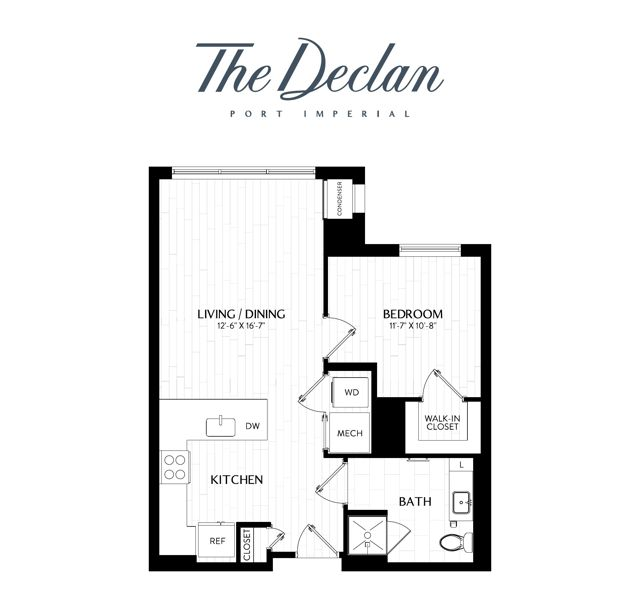
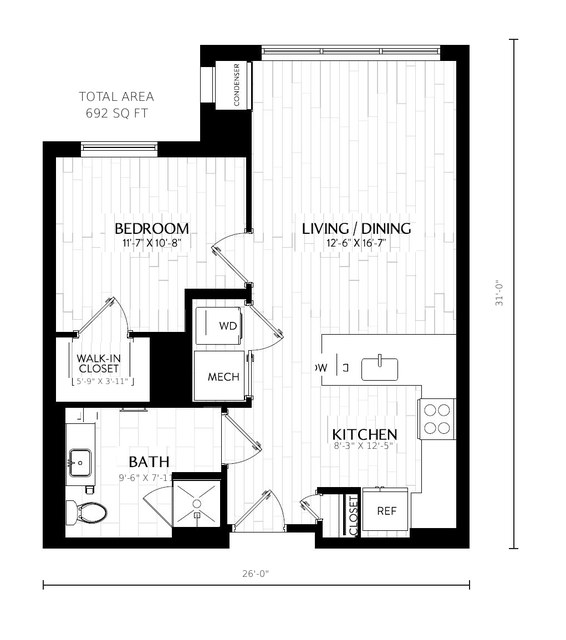
Add December-free deal (net $3,687/mo), corrected floor plan, skip label for NYC Sublets
Claude-Session: https://claude.ai/code/session_011tLM7uwCDuKwUD4ANF4AVN

diff --git a/index.html b/index.html
@@ -144,12 +144,14 @@ select{width:100%;font-size:17px;padding:10px;border:1px solid var(--line);borde
   <p class="small" style="margin-top:8px">Facebook only shows the first two lines until someone taps "See more." Tap "See more" above to read the whole thing.</p>
   <details class="more"><summary>Edit the post</summary>
     <p class="small">Change a box and the post updates by itself.</p>
-    <label for="rent">Rent per month</label>
+    <label for="rent">Rent per month on the lease</label>
     <input type="text" id="rent" value="$4,258" inputmode="text">
+    <label for="net">Monthly rent with the deal (leave empty if no deal)</label>
+    <input type="text" id="net" value="$3,687" inputmode="text">
     <label for="movein">Move-in date</label>
     <input type="text" id="movein" value="Dec 1">
     <label for="offer">Special deal (leave empty if none)</label>
-    <input type="text" id="offer" placeholder="Example: First month FREE">
+    <input type="text" id="offer" value="December rent FREE if you take over by Dec 1" placeholder="Example: First month FREE">
     <label for="post">The whole post (you can type in here too)</label>
     <textarea id="post"></textarea>
     <p class="note" id="editednote" hidden>You typed in the big box, so the small boxes won't change it anymore. Tap "Start over" to undo your typing.</p>
@@ -235,7 +237,7 @@ const GROUPS=[
  ["NYC Rooms for Rent (roommates, rooms, apartments + sublets)","https://www.facebook.com/groups/I9150/","","nyc"],
  ["People of Port Imperial","https://www.facebook.com/groups/204624969954677/","Private neighbors group: answer the join questions."]
 ];
-const WARN={2:"⚠ This group removed Tyler's post. Skipped by default.",4:"⚠ Tyler was removed from this group after posting. Skipped by default.",8:"⚠ Only approves posts that include a Cirtru listing link. Skipped by default."};
+const WARN={2:"⚠ This group removed Tyler's post. Skipped by default.",3:"⚠ This group makes you pay to join. Skipped by default.",4:"⚠ Tyler was removed from this group after posting. Skipped by default.",8:"⚠ Only approves posts that include a Cirtru listing link. Skipped by default."};
 const $=id=>document.getElementById(id);
 const store=(k,v)=>{try{localStorage.setItem("declan_"+k,JSON.stringify(v))}catch(e){}};
 const load=(k,d)=>{try{const v=localStorage.getItem("declan_"+k);return v==null?d:JSON.parse(v)}catch(e){return d}};
@@ -267,26 +269,30 @@ renderTimes();setInterval(renderTimes,10*60*1000);
 
 /* ---------- post ---------- */
 let edited=false;
-function titleFor(gi,rent,mi,offer){
-  const end=" | "+rent+"/mo | Move in "+mi+(offer?" | "+offer:"");
+const EDITED_PHOTOS=false; // flip to true when the edited photo set is in photos/
+function dealTag(offer){return offer?offer.split(/\s+(?:if|when|for)\s+|\s*\(/i)[0].trim():""}
+function titleFor(gi,rent,mi,offer,net){
+  const tag=dealTag(offer);
+  const end=" | "+(net?"Net "+net+"/mo":rent+"/mo")+" | Move in "+mi;
+  const pre=tag?tag+" | ":"";
   const NJ=["Take over my lease: 1BR with skyline views at The Declan (Weehawken)","Lease takeover: 7th-floor 1BR facing the Manhattan skyline at The Declan, Weehawken","Skyline-view 1BR at The Declan (Port Imperial), take over my lease"];
   const NY=["10 min to Midtown by ferry: 1BR with skyline views, lease takeover at The Declan (Weehawken)","Ferry to Midtown + skyline views: 1BR lease takeover at The Declan, Weehawken"];
-  if(gi==null)return NJ[0]+end;
+  if(gi==null)return pre+NJ[0]+end;
   const kind=GROUPS[gi][3]==="nyc"?"nyc":"nj";
   const same=GROUPS.map((g,i)=>i).filter(i=>(GROUPS[i][3]==="nyc"?"nyc":"nj")===kind);
   const k=same.indexOf(gi), list=kind==="nyc"?NY:NJ;
-  return list[k%list.length]+end;
+  return pre+list[k%list.length]+end;
 }
 function build(gi){
-  const rent=$("rent").value.trim()||"$4,258", mi=$("movein").value.trim()||"Dec 1", offer=$("offer").value.trim();
-  return [titleFor(gi,rent,mi,offer),
+  const rent=$("rent").value.trim()||"$4,258", mi=$("movein").value.trim()||"Dec 1", offer=$("offer").value.trim(), net=$("net").value.trim();
+  return [titleFor(gi,rent,mi,offer,net),
   "",
-  (offer?"🎁 "+offer+"\n\n":"")+"I'm looking for someone to take over my lease at The Declan, a luxury waterfront building in Port Imperial that opened in 2025. My apartment is on the 7th floor, and the whole living room wall is floor-to-ceiling windows looking right at the Midtown and Hudson Yards skyline. You can see it from bed too.",
+  (offer?"🎁 "+offer+(net?". That brings it down to about "+net+"/month for the rest of the lease.":"")+"\n\n":"")+"I'm looking for someone to take over my lease at The Declan, a luxury waterfront building in Port Imperial that opened in 2025. My apartment is on the 7th floor, and the whole living room wall is floor-to-ceiling windows looking right at the Midtown and Hudson Yards skyline. You can see it from bed too.",
   "",
   "Only about 7.5 months left on the lease (it ends July 14, 2027), so it's a great fit if you don't want a full 12-month commitment.",
   "",
   "📆 Move in "+mi+" (flexible)",
-  "💵 "+rent+"/month + utilities, no broker fee",
+  "💵 "+(net?net+"/month with the deal ("+rent+"/month on the lease)":rent+"/month")+" + utilities, no broker fee",
   "🏠 692 sq ft, 9-ft ceilings, washer/dryer in the apartment, walk-in closet with built-in shelving",
   "🍳 Big quartz island with seating, gas stove, dishwasher, stainless appliances",
   "🛋 Some furniture can stay for free",
@@ -295,13 +301,15 @@ function build(gi){
   "⛴ Ferry to Midtown nearby, plus light rail and buses to Port Authority",
   "✅ Easy process: apply with the building, get approved, move in",
   "",
+  ...(EDITED_PHOTOS?["📸 Photos have enhanced lighting and sky, but the view is exactly what you see from the windows.",""]:[]),
   "Tours weekdays after 4:30 PM or weekends 8 AM–6 PM. Message me with your move-in date and a little about yourself!"].join("\n");
 }
-function refresh(){if(!edited)$("post").value=build();store("fields",{r:$("rent").value,m:$("movein").value,o:$("offer").value})}
-["rent","movein","offer"].forEach(id=>$(id).addEventListener("input",refresh));
+function refresh(){if(!edited)$("post").value=build();store("fields",{r:$("rent").value,n:$("net").value,m:$("movein").value,o:$("offer").value})}
+["rent","net","movein","offer"].forEach(id=>$(id).addEventListener("input",refresh));
+if(!load("dealv1",false)){store("fields",null);store("post",null);store("dealv1",true)}
 $("post").addEventListener("input",()=>{edited=true;$("editednote").hidden=false;store("post",$("post").value)});
 $("reset").addEventListener("click",()=>{edited=false;$("editednote").hidden=true;store("post",null);refresh()});
-const f=load("fields",null);if(f){$("rent").value=f.r;$("movein").value=f.m;$("offer").value=f.o}
+const f=load("fields",null);if(f){$("rent").value=f.r;if(f.n!=null)$("net").value=f.n;$("movein").value=f.m;$("offer").value=f.o}
 const sp=load("post",null);if(sp){edited=true;$("post").value=sp;$("editednote").hidden=false}else refresh();
 function textFor(gi){return edited?$("post").value:build(gi)}
 async function copyPost(gi){const t=textFor(gi);try{await navigator.clipboard.writeText(t);return true}catch(e){const ta=$("post");ta.focus();ta.select();try{return document.execCommand("copy")}catch(e2){return false}}}
@@ -322,6 +330,7 @@ $("saveAll").addEventListener("click",async()=>{
 /* ---------- groups ---------- */
 let sel=load("sel",GROUPS.map((g,i)=>!WARN[i])), done=load("done",{}), cur=load("cur",0);
 if(!load("warnv1",false)){for(const k in WARN)sel[k]=false;store("sel",sel);store("warnv1",true)}
+if(!load("warnv2",false)){sel[3]=false;store("sel",sel);store("warnv2",true)}
 function renderList(){
   $("glist").innerHTML=GROUPS.map((g,i)=>'<label><input type="checkbox" data-i="'+i+'"'+(sel[i]?" checked":"")+'><span>'+g[0]+(done[i]?'<span class="tag">Posted</span>':'')+(WARN[i]?'<span class="gn warn">'+WARN[i]+'</span>':'')+(g[2]?'<span class="gn">'+g[2]+'</span>':'')+'</span></label>').join("");
   document.querySelectorAll("#glist input").forEach(c=>c.addEventListener("change",()=>{sel[c.dataset.i]=c.checked;store("sel",sel);renderStep()}));
@@ -420,23 +429,23 @@ $("share").addEventListener("click",async()=>{
 });
 
 /* ---------- reply templates ---------- */
-function vals(){return{rent:$("rent").value.trim()||"$4,258",mi:$("movein").value.trim()||"Dec 1",offer:$("offer").value.trim()}}
+function vals(){return{rent:$("rent").value.trim()||"$4,258",net:$("net").value.trim(),mi:$("movein").value.trim()||"Dec 1",offer:$("offer").value.trim()}}
 function replies(){const v=vals();return [
- ["Is it still available?","Hi! Yes, it's still available 😊 It's a 1-bedroom on the 7th floor at The Declan in Weehawken with a full skyline view. "+v.rent+"/month + utilities"+(v.offer?" ("+v.offer+")":"")+", move-in "+v.mi+", and the lease runs through July 14, 2027. Would you like to come see it? I can do weekdays after 4:30 PM or weekends 8 AM–6 PM."],
+ ["Is it still available?","Hi! Yes, it's still available 😊 It's a 1-bedroom on the 7th floor at The Declan in Weehawken with a full skyline view. "+v.rent+"/month + utilities"+(v.offer?" ("+v.offer+(v.net?", which works out to about "+v.net+"/month":"")+")":"")+", move-in "+v.mi+", and the lease runs through July 14, 2027. Would you like to come see it? I can do weekdays after 4:30 PM or weekends 8 AM–6 PM."],
  ["They want to see it (tour)","Great! Does [DAY] at [TIME] work for you? The address is 5 Port Imperial Blvd, Weehawken, NJ. Just message me when you get to the lobby and I'll come down to meet you."],
  ["How does taking over the lease work?","It's pretty simple: you apply with the building (their normal application), and once they approve you, the lease switches over to you and you move in. There's no broker fee. The lease ends July 14, 2027, so it's about 7.5 months."],
  ["Pets?","Yes, the building is pet-friendly! The building charges a small monthly pet fee."],
  ["Parking?","There's garage parking in the building. It's a separate monthly fee that you'd set up with the leasing office."],
  ["Utilities?","Utilities are separate. You set them up in your name and pay the companies directly."],
  ["Furniture?","Some furniture can stay for free, and other pieces we can talk about. I'm happy to show you what's available when you come see it."],
- ["Can I get a lower price?","Thanks for asking! Let me check and get back to you shortly."],
+ ["Can I get a lower price?",(v.offer?"Thanks for asking! We're already including a deal ("+v.offer+(v.net?", about "+v.net+"/month overall":"")+"). ":"Thanks for asking! ")+"Let me check and get back to you shortly."],
  ["It's taken / no longer available","Thank you so much for reaching out! The apartment has been taken, but I really appreciate your interest. Good luck with your search!"]
 ]}
 function renderReplies(){
   $("replylist").innerHTML=replies().map((r,i)=>'<div class="reply"><b>'+esc(r[0])+'</b><p>'+esc(r[1])+'</p><button class="ghost" data-r="'+i+'">Copy</button></div>').join("");
   document.querySelectorAll("#replylist button").forEach(b=>b.onclick=async()=>{const t=replies()[+b.dataset.r][1];try{await navigator.clipboard.writeText(t);b.textContent="Copied! Now paste it in your reply";b.classList.add("ok")}catch(e){b.textContent="Press and hold the text above to copy"}setTimeout(()=>{b.textContent="Copy";b.classList.remove("ok")},3500)});
 }
-["rent","movein","offer"].forEach(id=>$(id).addEventListener("input",renderReplies));
+["rent","net","movein","offer"].forEach(id=>$(id).addEventListener("input",renderReplies));
 renderReplies();
 
 /* ---------- celebration ---------- */
